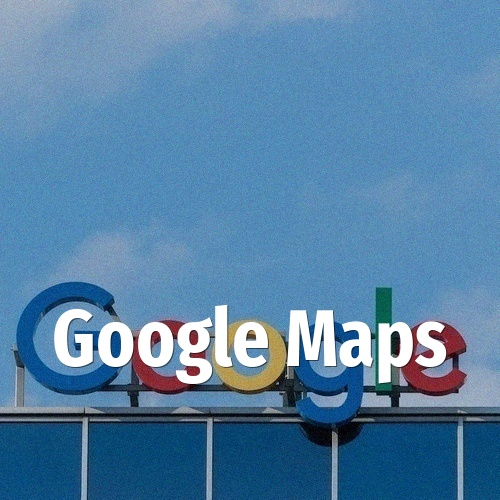
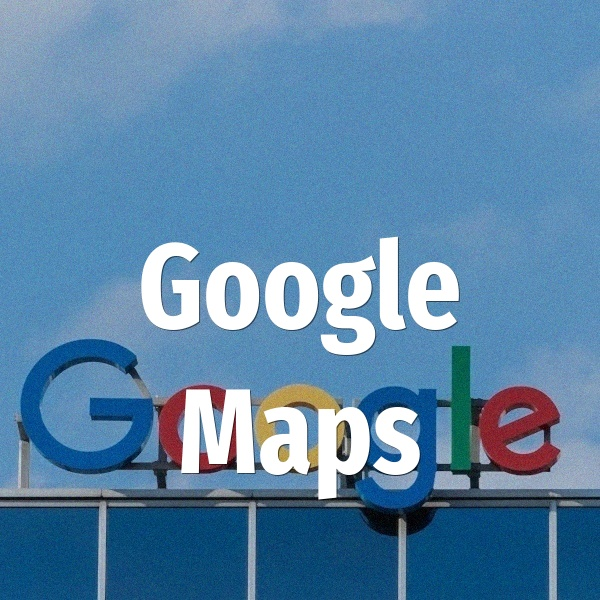
ADD: 2023-01-07-time.md 2023-01-07-weather.md deploy.sh splashmark.env time.jpg weather.jpg, MOV: 2023-01-18-abrp.md 2023-01-18-gmaps.md, MOD: _config.yml default.html gmaps.jpg

diff --git a/_layouts/default.html b/_layouts/default.html
@@ -1,15 +1,10 @@
 <!DOCTYPE html>
 <html lang="en-us">
-
   {% include head.html %}
-
   <body>
-
     <div class="content container">
       {{ content }}
     </div>
-
     {% include analytics.html %}
-
   </body>
 </html>

diff --git a/_posts/2023-01-07-weather.md b/_posts/2023-01-07-weather.md
@@ -1,0 +1,6 @@
+---
+title: Weather Grimbergen
+layout: post
+image: /images/weather.jpg
+external: https://www.accuweather.com/en/be/grimbergen/31674/daily-weather-forecast/31674
+---

diff --git a/_posts/2023-01-01-gmaps.md b/_posts/2023-01-01-gmaps.md
@@ -1,6 +1,6 @@
 ---
-title: Google Maps
+title: Google Maps2
 layout: post
-image: images/gmaps.jpg
+image: /images/gmaps.jpg
 external: https://www.google.com/maps
 ---

diff --git a/_posts/2023-01-01-abrp.md b/_posts/2023-01-01-abrp.md
@@ -1,6 +1,6 @@
 ---
 title: A Better Routeplanner
 layout: post
-image: images/abrp.jpg
+image: /images/abrp.jpg
 external: https://abetterrouteplanner.com/
 ---

diff --git a/_posts/2023-01-07-time.md b/_posts/2023-01-07-time.md
@@ -1,0 +1,6 @@
+---
+title: Exact Time
+layout: post
+image: /images/time.jpg
+external: https://time.is/
+---
